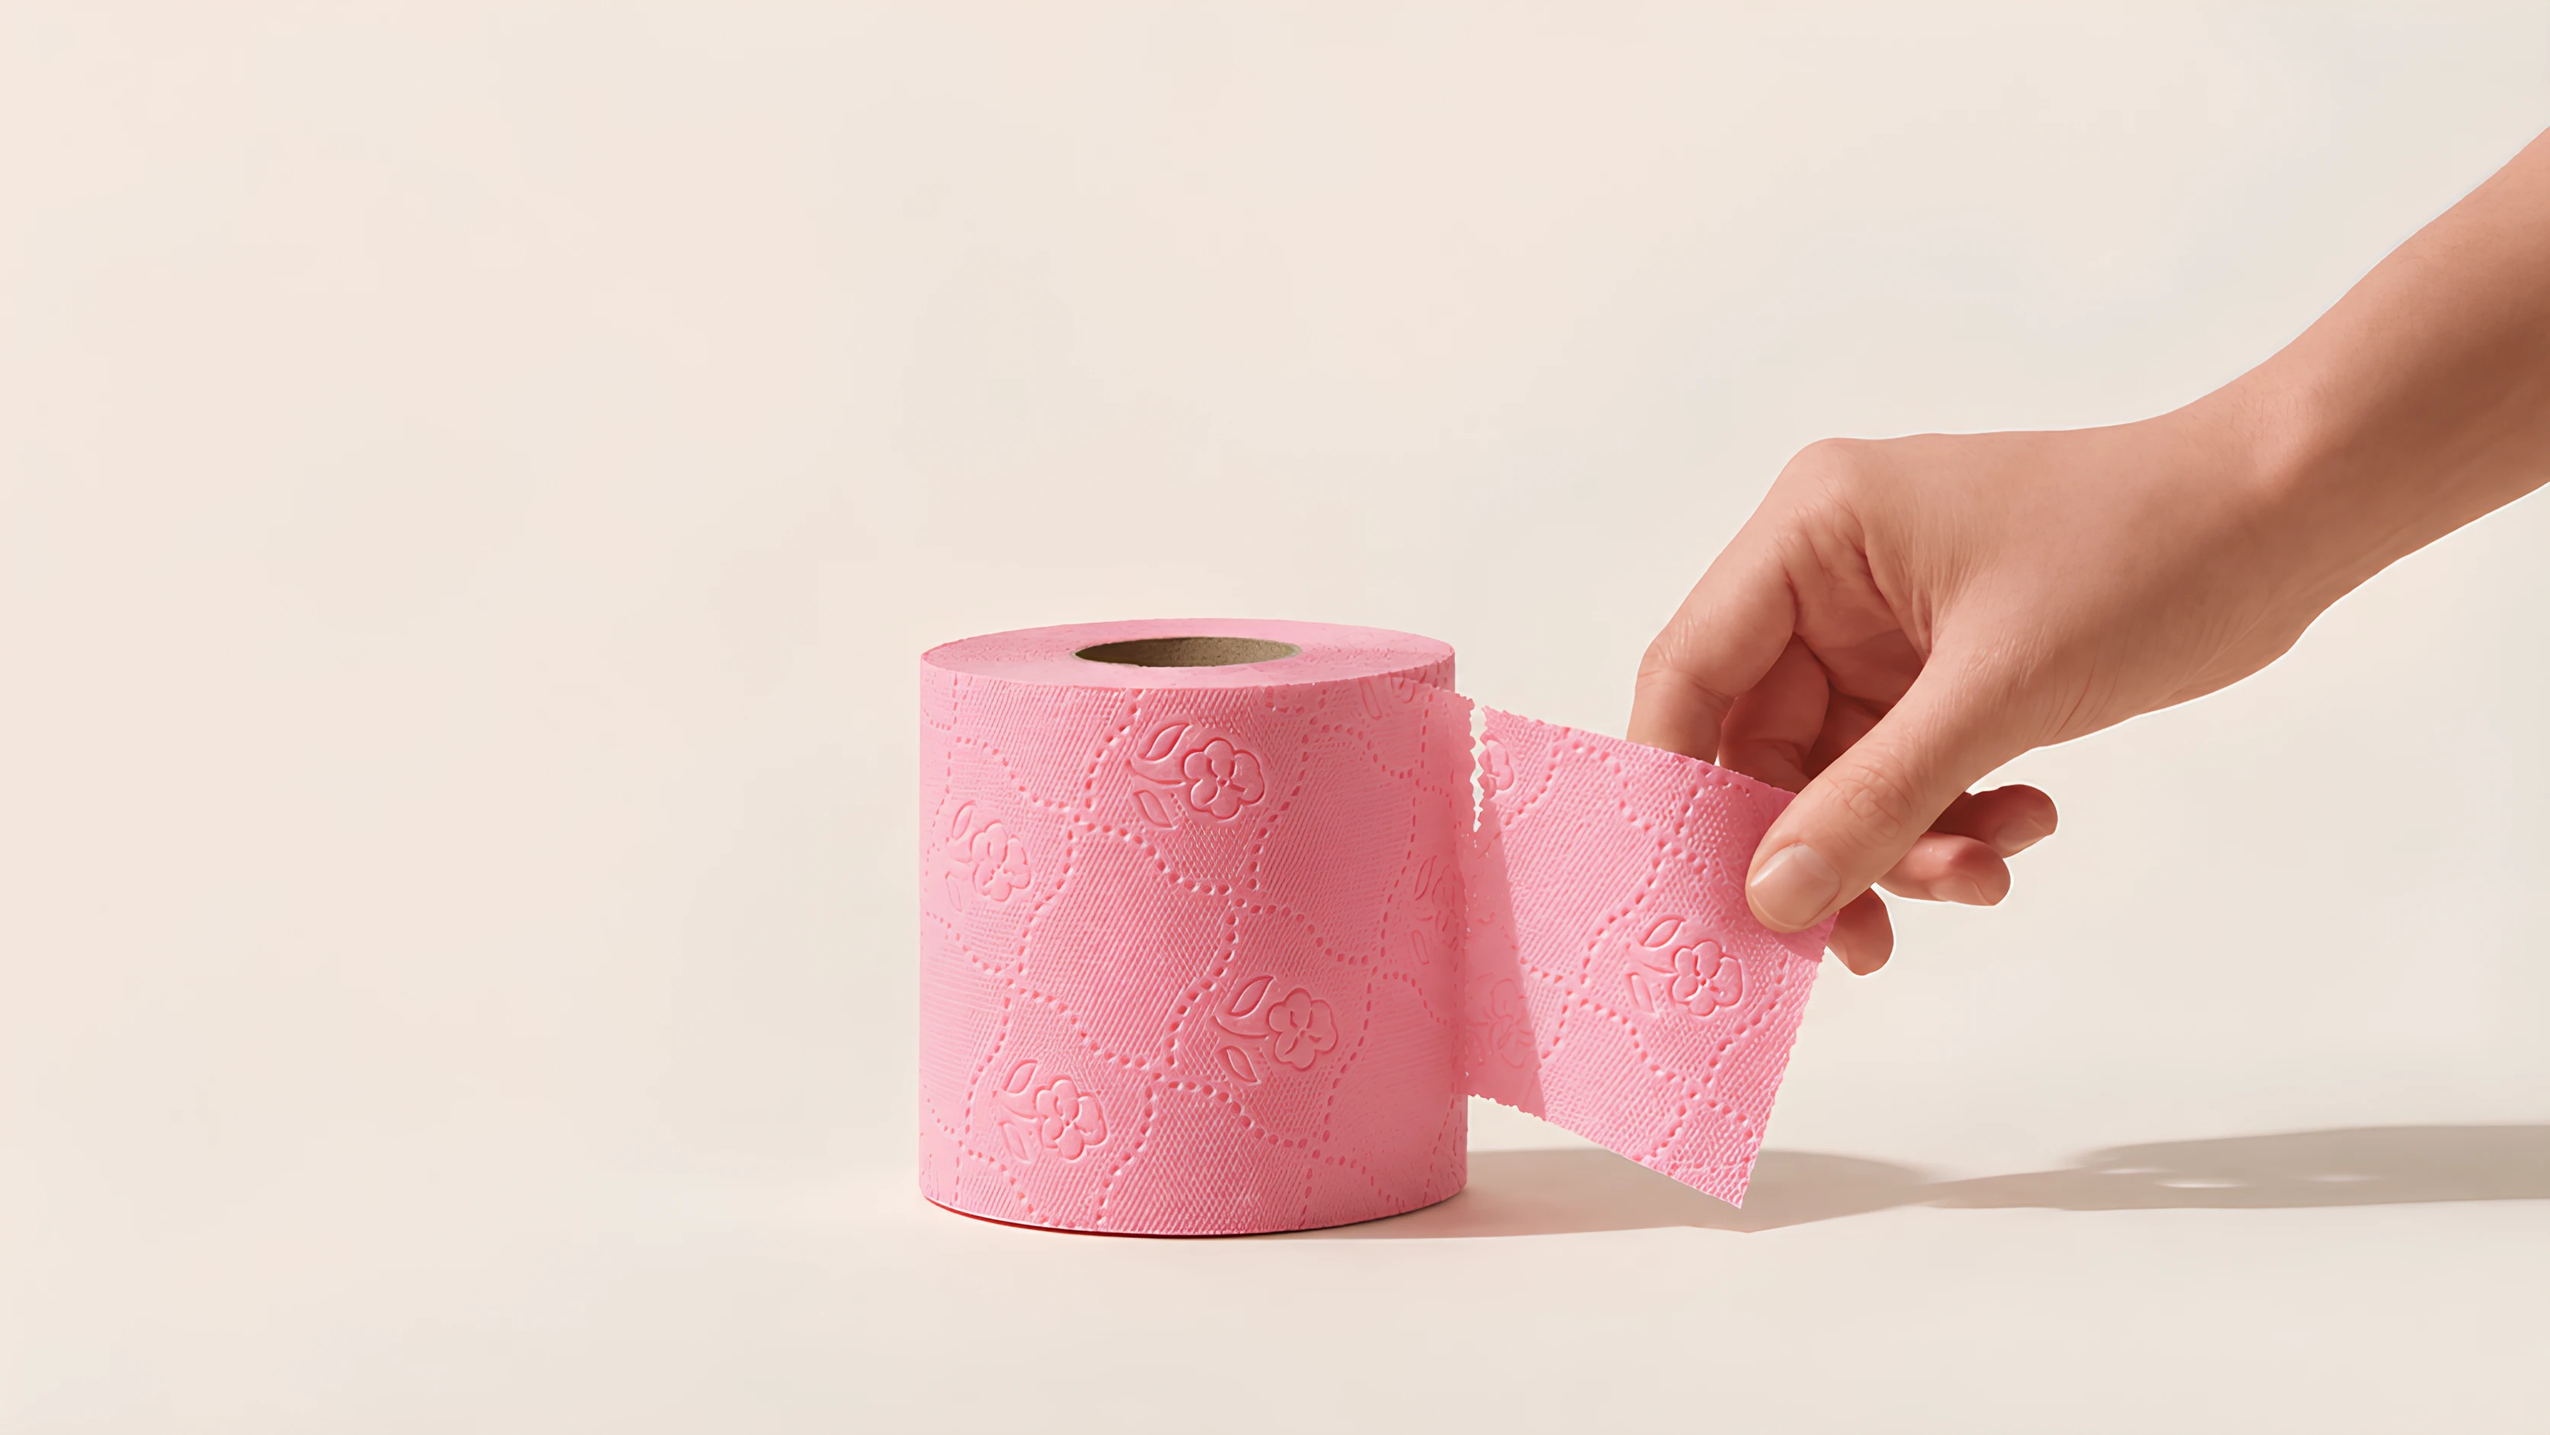
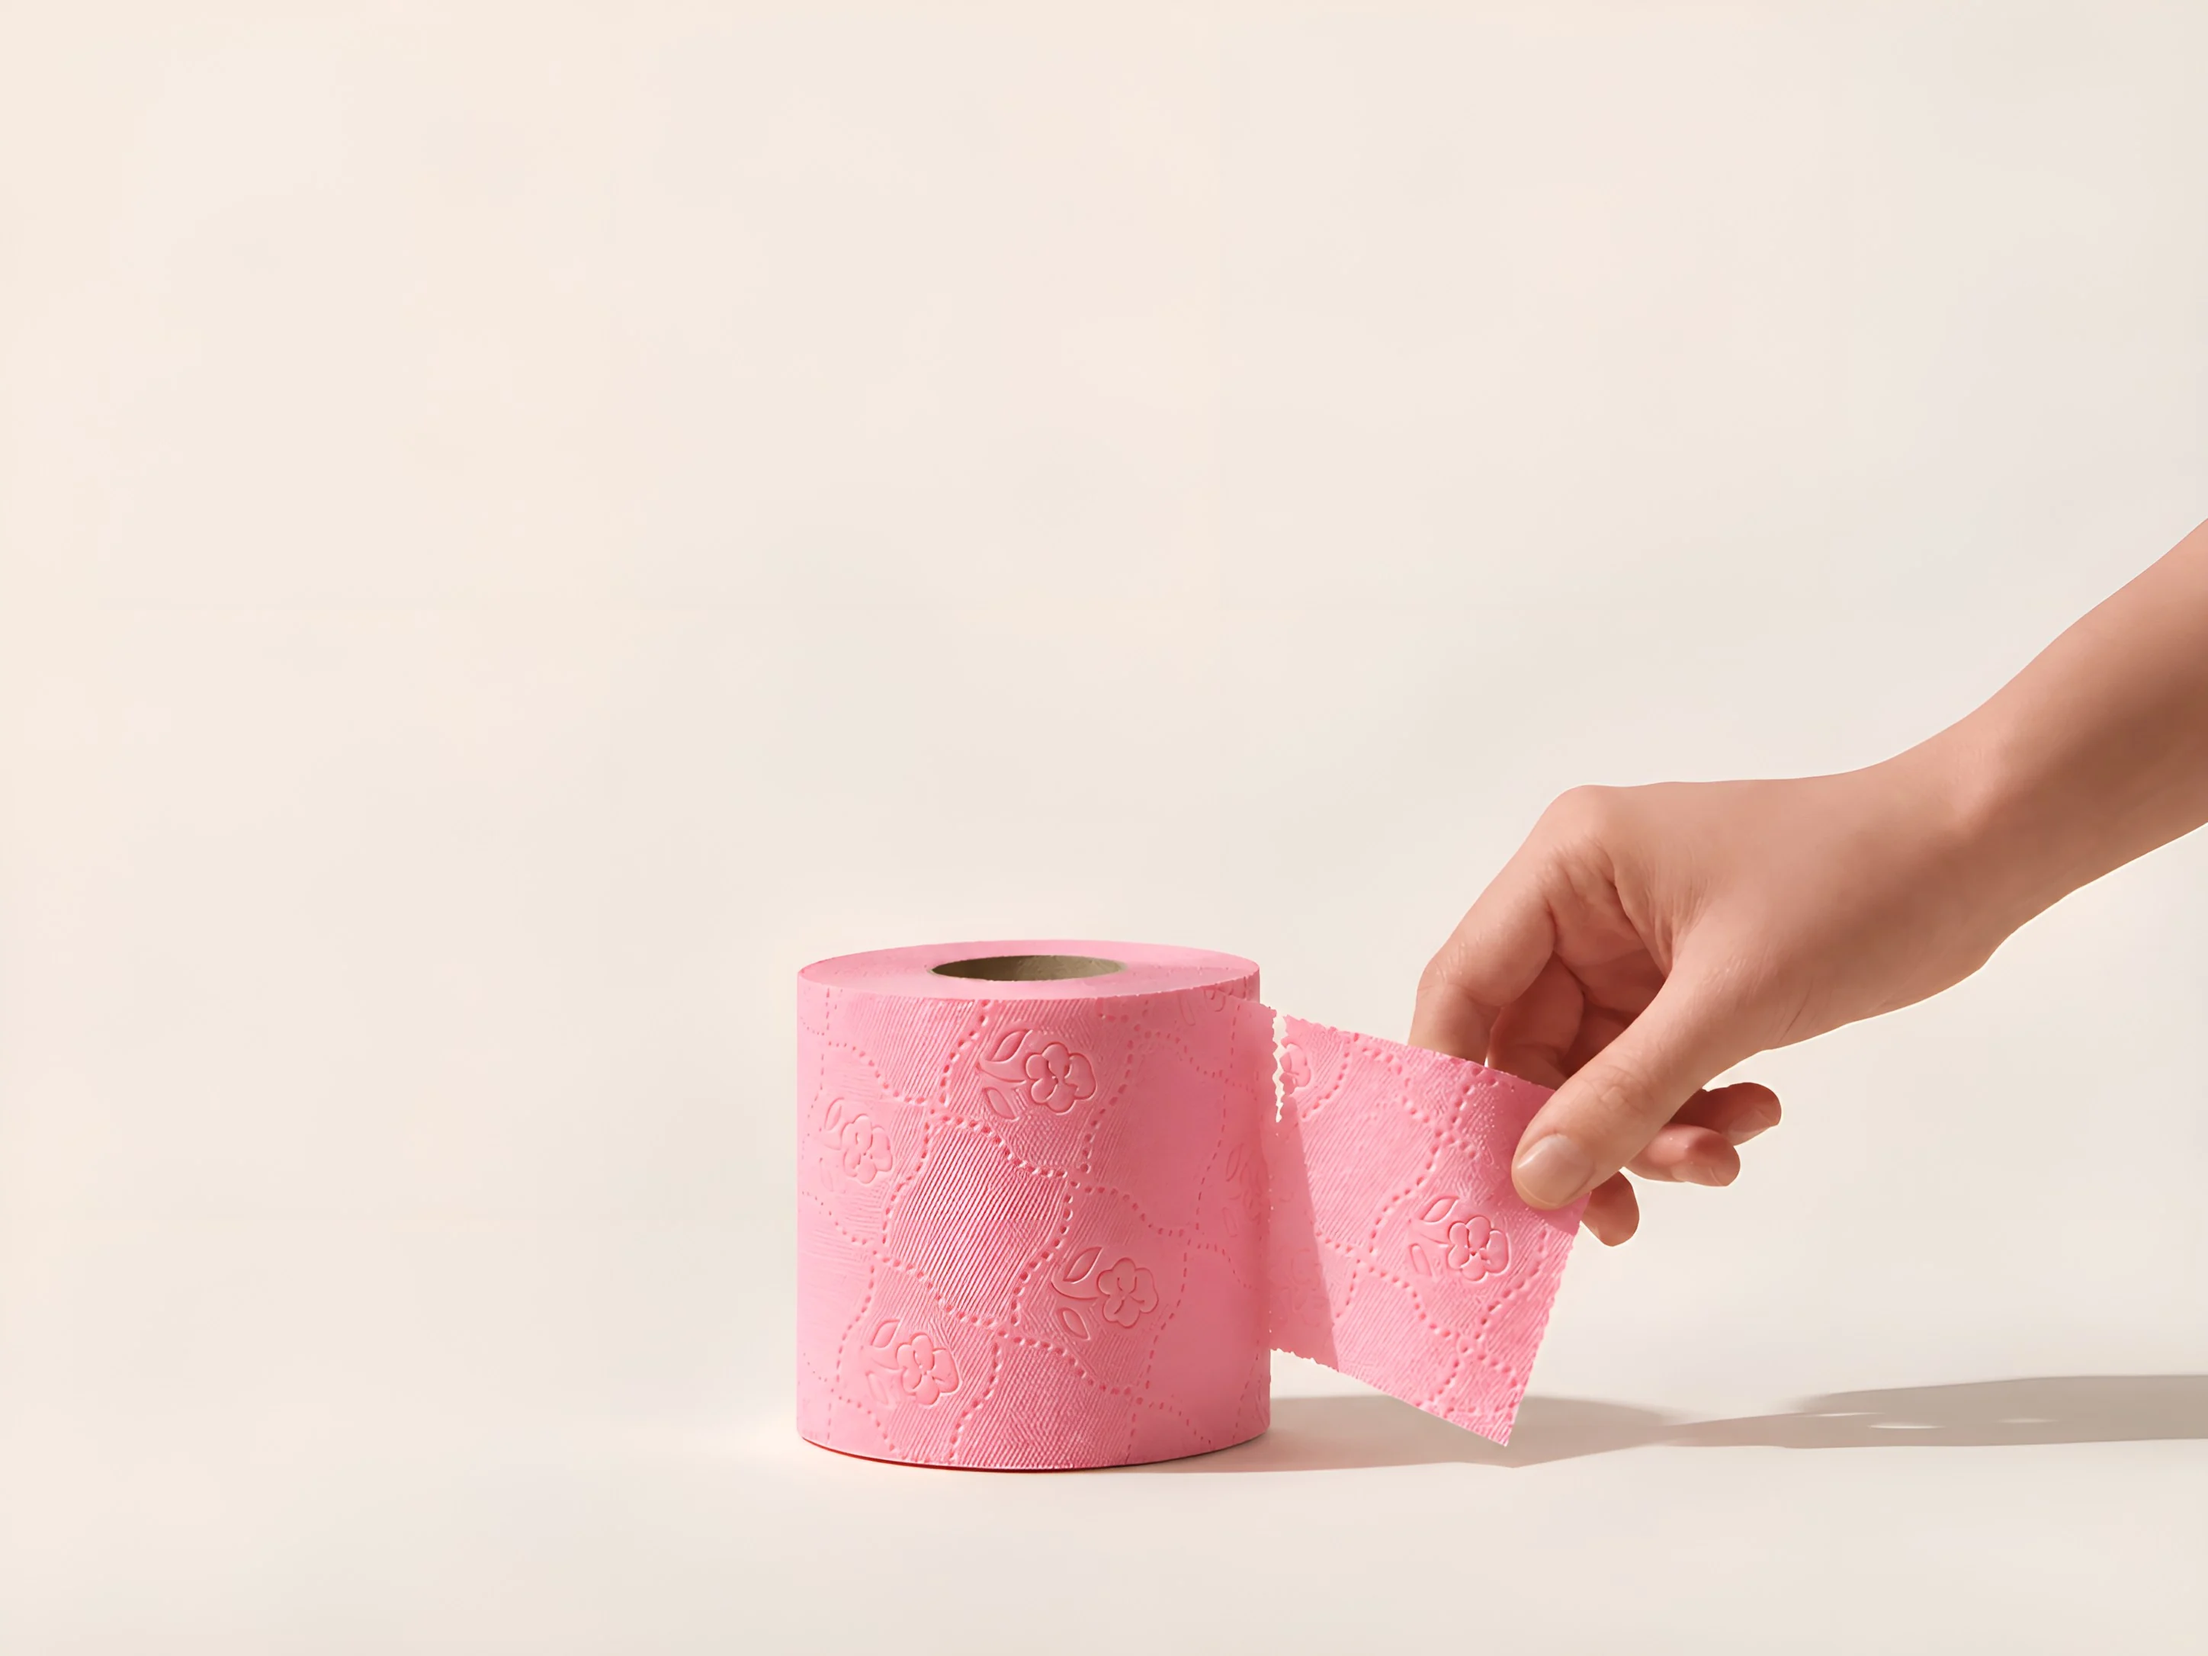
feat: new hero photo with more headroom
Swap in a hero photo with more beige above the roll so the heading and
buttons stay clear of it and its base is no longer cut on wide screens.
The previous photo is kept as roosa-pink-roll-hero_legacy.webp and can
be restored by pointing home.hero at heroPhotoLegacy in lib/assets.ts.

Desktop fills the panel centred across and anchored 75% down; phones
size the photo to the roll from each photo's measured frame.

Changed region(s): [[0.3419, 0.0925, 1.0, 0.8937]]

diff --git a/src/app/page.tsx b/src/app/page.tsx
@@ -49,22 +49,32 @@ export default function HomePage() {
            at an 844-tall viewport it gives 734, and 734 x 1.05 is the 771 the
            source draws there. */}
       <section className="px-4 pt-[78px] sm:px-8">
-        {/* The panel carries the photo's own backdrop beige, which the
-            phone layout of the photo fades into; see .hero-photo. */}
-        <div className="@container relative h-[calc(100vh-110px)] overflow-hidden rounded-[24px] bg-[#f1e6dd]">
+        {/* The panel carries the photo's own backdrop beige, which the phone
+            layout of the photo fades into; see .hero-photo. */}
+        <div className="@container relative h-[calc(100vh-110px)] overflow-hidden rounded-[24px] bg-[linear-gradient(#f7eae1,#eee4db)]">
           <Image
             src={home.hero.src}
             alt={home.hero.alt}
             width={home.hero.width}
             height={home.hero.height}
             priority
-            // A phone draws the photo about 2.6 screens wide; see .hero-photo.
-            sizes="(max-width: 719px) 270vw, 100vw"
-            // hero-drift and hero-photo: the phone parallax and sizing, see
-            // globals.css. object-top: on a wide, short window the photo is
-            // cropped top and bottom, and centring it lifted the roll into the
-            // copy; pinned to the top it only loses plain backdrop there.
-            className="hero-drift hero-photo h-[102%] w-full -translate-y-[2%] object-cover object-top"
+            // A phone draws the photo about 2.4 screens wide; see .hero-photo.
+            sizes="(max-width: 719px) 240vw, 100vw"
+            // From 720 the photo fills the panel, centred across. Down, it is
+            // held 75% of the way to its floor rather than centred: the roll
+            // sits low in this photo, and a centred crop clipped its base on
+            // wide screens. hero-drift and hero-photo are the phone parallax
+            // and sizing, see globals.css.
+            className="hero-drift hero-photo h-full w-full object-cover object-[50%_75%]"
+            style={
+              {
+                "--iw": home.hero.width,
+                "--ih": home.hero.height,
+                "--cx": home.hero.frame.cx,
+                "--cy": home.hero.frame.cy,
+                "--span": home.hero.frame.span,
+              } as CSSProperties
+            }
           />
           {/* The roll's rim moves with the panel's size while this block is
               set in px, so on a short screen the buttons ran onto the roll.

diff --git a/src/lib/assets.ts b/src/lib/assets.ts
@@ -14,8 +14,27 @@ export const brand = {
   ogImage: "/assets/icons/roosa-social-preview.webp",
 };
 
+/**
+ * A hero photo with where its roll sits, in the photo's own pixels: the roll's
+ * centre (cx, cy) and the width of the roll plus the pulled sheet. The phone
+ * hero is sized and placed from these (see .hero-photo in globals.css), so a
+ * different photo only needs its own numbers.
+ */
+export type HeroPhoto = Asset & { frame: { cx: number; cy: number; span: number } };
+
+const heroPhoto: HeroPhoto = {
+  ...img("roosa-pink-roll-hero.webp", 2896, 2172, "Hand pulling a sheet from a pink roll"),
+  frame: { cx: 1549, cy: 1583, span: 1010 },
+};
+
+export const heroPhotoLegacy: HeroPhoto = {
+  ...img("roosa-pink-roll-hero_legacy.webp", 3344, 1882, "Hand holding pink roll against pink background"),
+  frame: { cx: 1794, cy: 1252, span: 1160 },
+};
+
 export const home = {
-  hero: img("roosa-pink-roll-hero.webp", 3344, 1882, "Hand holding pink roll against pink background"),
+  // Swap for heroPhotoLegacy to go back to the previous photo.
+  hero: heroPhoto,
   forest: img("roosa-blossom-landscape.webp", 1672, 941, "Flowering trees against blue sky"),
   routine: img("roosa-home-routine.webp", 1672, 941, "Woman holding pink roll at home"),
   tennis: img("roosa-roll-on-court.webp", 1448, 1086, "Pink roll on running track"),
@@ -26,7 +45,6 @@ export const home = {
   closing: img("roosa-roll-in-flower-meadow.webp", 1249, 974, "Pink roll among flowers"),
   grassWide: img("roosa-pink-roll-meadow.webp", 1249, 974, "Pink roll in a flower meadow"),
   editorial: img("roosa-garden-table.webp", 1024, 1536, "Outdoor table beneath flowering trees"),
-  lab: img("roosa-pink-roll-hero.webp", 3344, 1882, "Hand holding pink roll against pink background"),
   grass: img("roosa-pink-roll-meadow.webp", 1249, 974, "Pink roll in a flower meadow"),
   bloom: img("roosa-flower-meadow.webp", 1672, 941, "Pink flowering meadow"),
   hand: img("roosa-woman-holding-roll.webp", 1448, 1086, "Woman holding a pink roll"),

diff --git a/src/app/globals.css b/src/app/globals.css
@@ -649,22 +649,22 @@ body {
 
 /* Phone hero photo. Filling the tall panel with the landscape photo zoomed it
    until the roll and its sheet ran off both sides. Instead the photo is sized
-   so that pink span - about 1160 of the photo's 3344px, centred on x=1794 -
-   fits the panel with 28px clear either side, and the roll (y=1252 in the
-   photo) is centred between the buttons and the panel floor. Scaled off the
-   panel's own width (cqw), which is wider from 640 up. Its top and bottom
-   edges fade into the panel's matching beige, so no seam shows. Unlayered,
-   so it wins over the desktop utilities on the element. */
+   so the roll and its sheet fit the panel with 28px clear either side, and the
+   roll is centred between the buttons and the panel floor. The page passes the
+   photo's pixel size (--iw, --ih) and where its roll sits in it (--cx, --cy
+   centre, --span roll-plus-sheet width), set per photo in lib/assets.ts. Its
+   top and bottom edges fade into the panel's matching beige, so no seam shows.
+   Unlayered, so it wins over the desktop utilities on the element. */
 @media (width < 720px) {
   .hero-photo {
-    --s: calc((100cqw - 56px) / 1160);
+    --s: calc((100cqw - 56px) / var(--span));
     --copy-bottom: calc(clamp(24px, calc(45vh - 285px), 48px) + 217px);
     position: absolute;
     max-width: none;
-    width: calc(var(--s) * 3344);
-    height: calc(var(--s) * 1882);
-    left: calc(50% - var(--s) * 1794);
-    top: calc((var(--copy-bottom) + 24px + 100%) / 2 - var(--s) * 1252);
+    width: calc(var(--s) * var(--iw));
+    height: calc(var(--s) * var(--ih));
+    left: calc(50% - var(--s) * var(--cx));
+    top: calc((var(--copy-bottom) + 24px + 100%) / 2 - var(--s) * var(--cy));
     translate: none;
     mask-image: linear-gradient(to bottom, transparent, #000 16%, #000 84%, transparent);
   }
